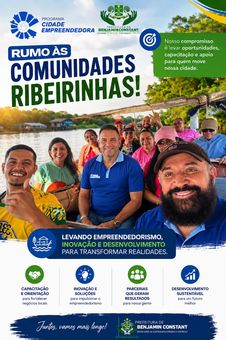
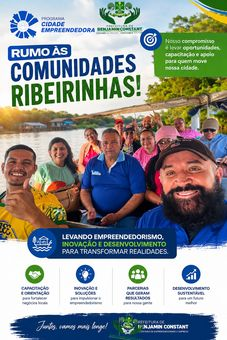
Nova Aliança: os fatos do áudio do Fred (curso 10-14/08, cerca de 30 mulheres, piloto)
Ele respondeu no grupo com dois áudios e o card em resolução melhor. O que entrou:
- é um curso de preparação de doces e salgados para as mulheres da comunidade,
  começou em 10/08 e vai até sexta, 14/08, com cerca de 30 inscritas;
- Nova Aliança é piloto de uma frente que se repete: Feijoal e Nova Esperança
  já estão na fila (a terceira comunidade que ele fala não deu para entender no
  áudio, então ficou de fora);
- título, resumo do ticker, meta e badge (Inclusão -> Capacitação) refeitos em
  cima disso, que agora é notícia de curso em andamento e não de visita.

Card trocado pela versão 1024x1536 que ele mandou (a primeira era 852x1280).

diff --git a/src/data/noticias.ts b/src/data/noticias.ts
@@ -40,11 +40,11 @@ export const noticias: Noticia[] = [
   {
     id: 'comunidades-ribeirinhas-nova-alianca',
     dia: '10', mes: 'AGO', ano: '2026',
-    titulo: 'SEMEE leva capacitação em empreendedorismo à comunidade ribeirinha de Nova Aliança',
-    curto: 'Empreendedorismo chega à comunidade ribeirinha de Nova Aliança',
-    texto: 'A equipe da Secretaria Municipal de Empreendedorismo e Emprego pegou o barco e foi até a comunidade ribeirinha de Nova Aliança levar capacitação, treinamento e orientação sobre empreendedorismo aos moradores. A ideia da visita é compartilhar conhecimento, incentivar novas ideias e fortalecer as iniciativas que já existem na comunidade, com um objetivo bem prático: ajudar a gerar renda no lugar onde as pessoas vivem. Sair da sede e atender na própria comunidade é uma escolha que diz muito sobre como a Secretaria entende o seu trabalho — quem está mais longe do balcão costuma ser justamente quem tem menos acesso à orientação que faz um pequeno negócio andar. A ação se apoia no Cidade Empreendedora, a parceria com o Sebrae que o município acabou de renovar para o ciclo 2027/2028, e conversa com o que a SEMEE mantém na sede: a Sala do Empreendedor, o SIME e a plataforma ContrataBC. "Nosso compromisso é levar oportunidades, capacitação e apoio para quem move nossa cidade", resume o material da Secretaria sobre a ida às comunidades ribeirinhas.',
-    meta: 'SEMEE EM AÇÃO · COMUNIDADE NOVA ALIANÇA · CIDADE EMPREENDEDORA',
-    badge: { label: 'Inclusão', cls: 'badge-green' },
+    titulo: 'Curso de doces e salgados abre a ida da SEMEE às comunidades ribeirinhas, em Nova Aliança',
+    curto: 'Curso de doces e salgados abre a ida da SEMEE às comunidades ribeirinhas',
+    texto: 'A ida da SEMEE às comunidades ribeirinhas começou nesta segunda-feira (10), na comunidade de Nova Aliança, com um curso de preparação de doces e salgados voltado às mulheres do lugar. São cerca de 30 inscritas, e a formação segue até sexta-feira (14), na própria comunidade — a equipe da Secretaria foi de barco levar capacitação, treinamento e orientação sobre empreendedorismo aos moradores. Escolher doces e salgados como primeiro conteúdo tem uma razão prática: é uma das portas de entrada mais curtas entre aprender uma técnica e ter o que vender, e o curso trabalha justamente o preparo, a apresentação e a organização de quem já produz ou quer começar. Nova Aliança é o piloto de uma frente que vai se repetir: Feijoal e Nova Esperança já estão na fila, e outras comunidades devem entrar no roteiro. Sair da sede e atender na própria comunidade é uma escolha que diz muito sobre como a Secretaria entende o seu trabalho — quem está mais longe do balcão costuma ser justamente quem tem menos acesso à orientação que faz um pequeno negócio andar. A ação se apoia no Cidade Empreendedora, a parceria com o Sebrae que o município acabou de renovar para o ciclo 2027/2028, e conversa com o que a SEMEE mantém na sede: a Sala do Empreendedor, o SIME e a plataforma ContrataBC. "Nosso compromisso é levar oportunidades, capacitação e apoio para quem move nossa cidade", resume o material da Secretaria sobre a ida às comunidades ribeirinhas.',
+    meta: 'SEMEE EM AÇÃO · NOVA ALIANÇA · 10 A 14 DE AGOSTO · CIDADE EMPREENDEDORA',
+    badge: { label: 'Capacitação', cls: 'badge-green' },
     imagem: {
       src: '/noticias/comunidades-ribeirinhas.jpg',
       alt: 'Card "Rumo às comunidades ribeirinhas": equipe da SEMEE e moradores reunidos em um barco no rio, com os pilares capacitação e orientação, inovação e soluções, parcerias que geram resultados e desenvolvimento sustentável',
